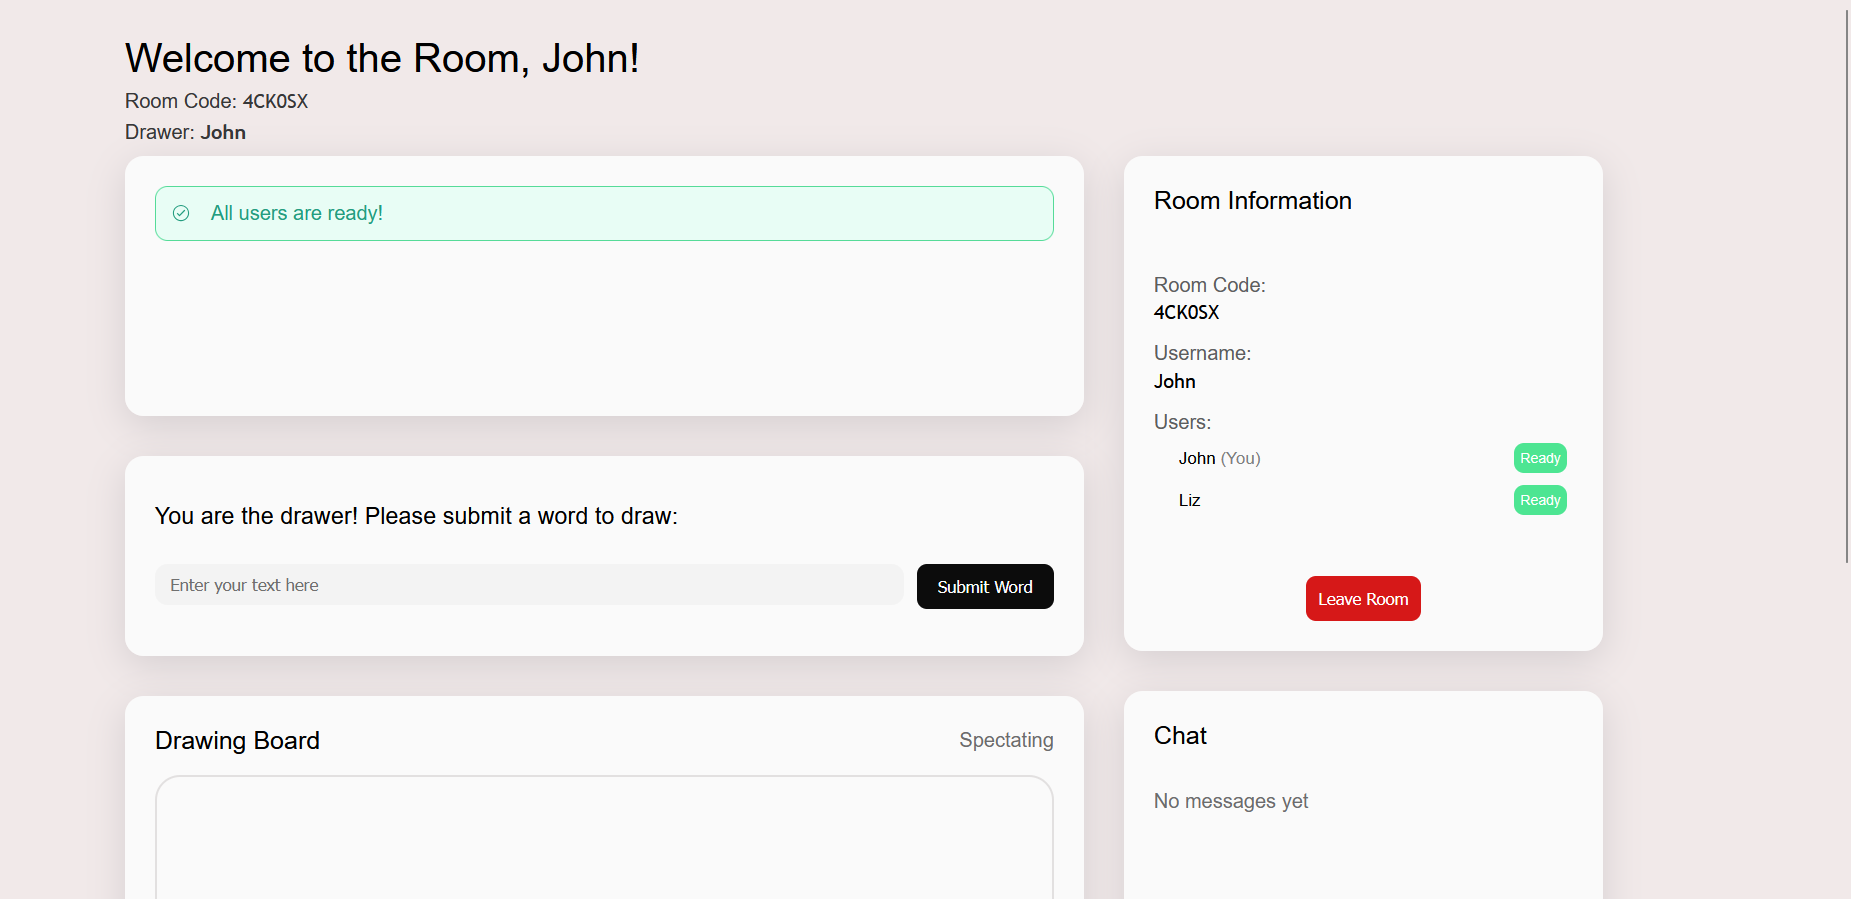
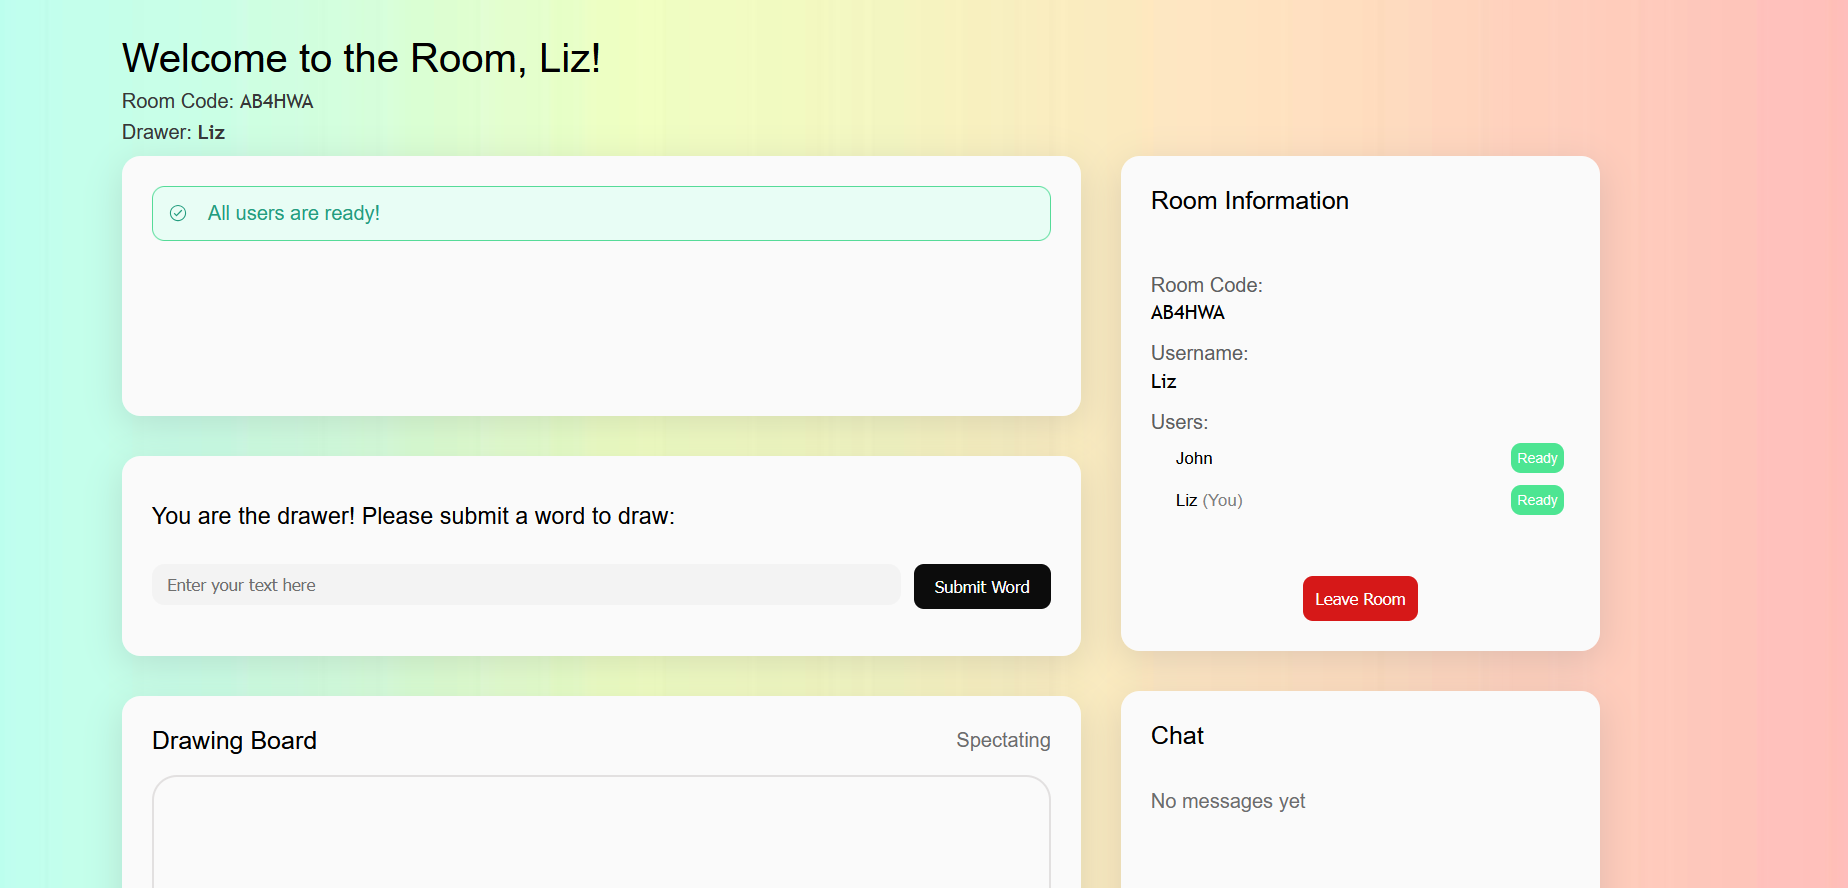
image update

diff --git a/client/src/css/pages/home.css b/client/src/css/pages/home.css
@@ -9,7 +9,7 @@
 }
 
 body {
-  background-image: url(image.png);
+  background-image: url(bg.png);
   background-size: cover;
   background-repeat: no-repeat;
 }
